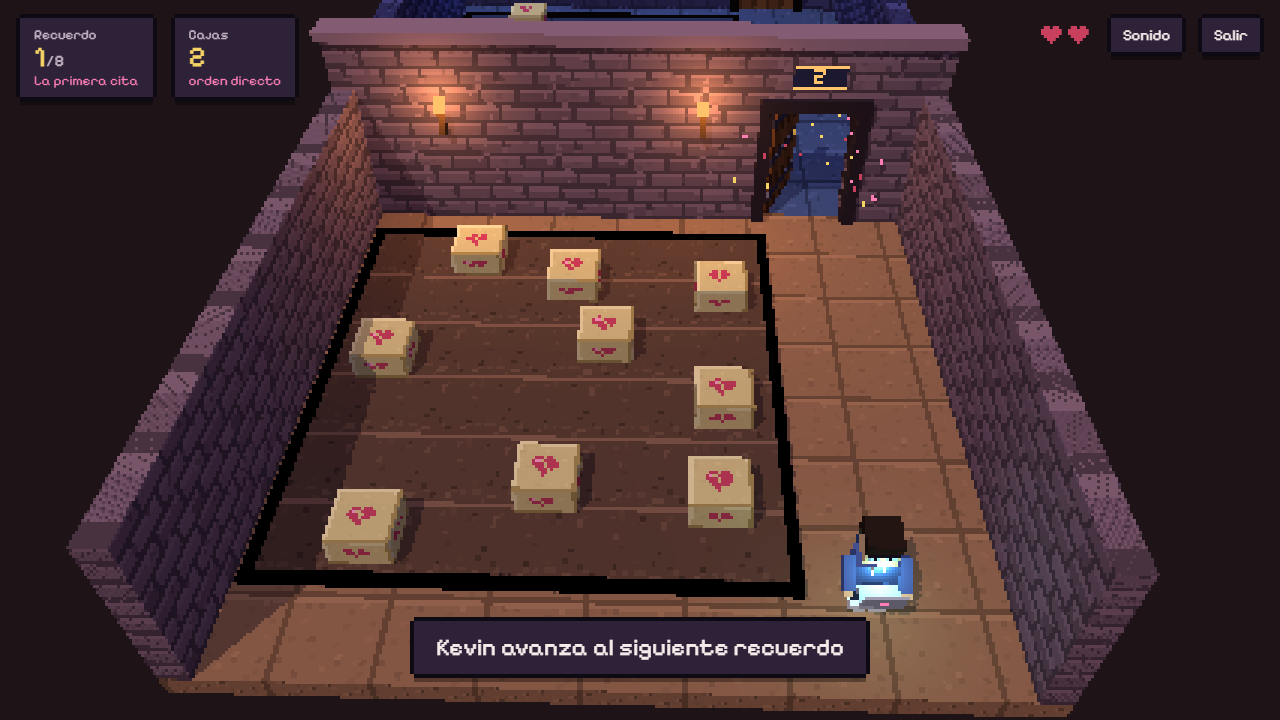
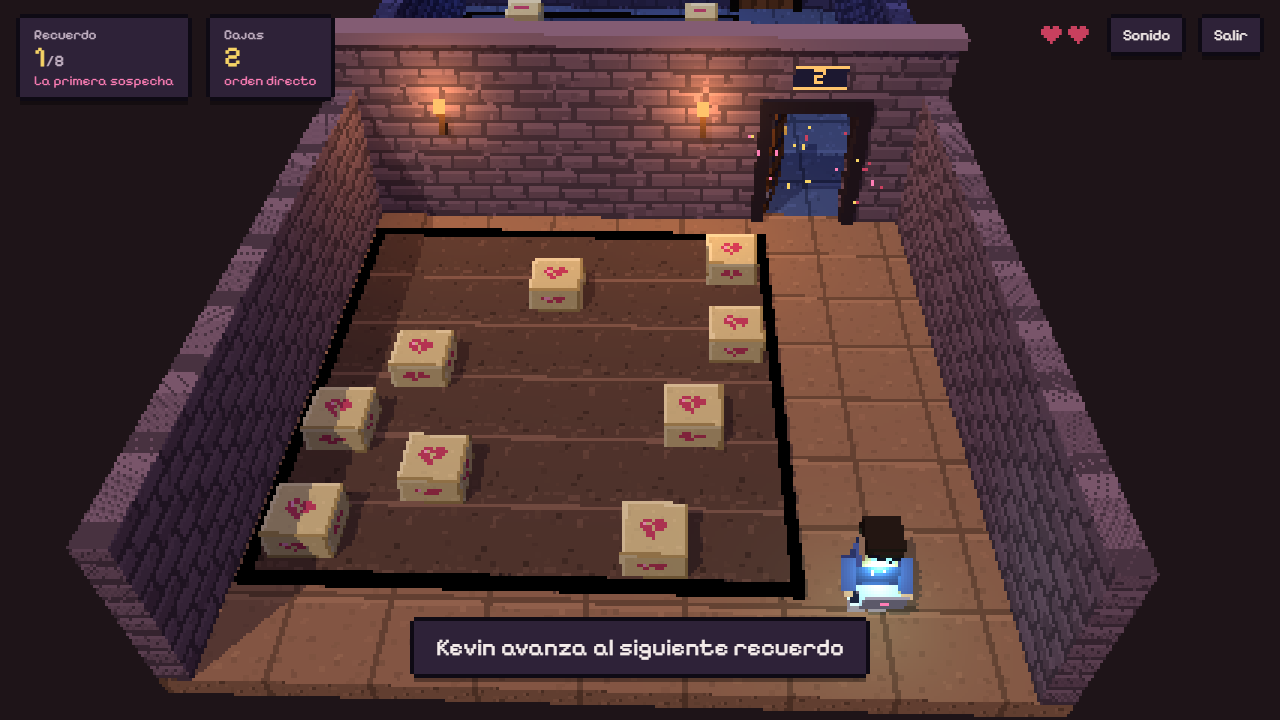
Cambia las frases de ELLA por las tipicas excusas de infidelidad

diff --git a/js/story.js b/js/story.js
@@ -1,66 +1,66 @@
 // Narrativa: Kevin, programador junior, recorre los recuerdos de su ex.
-// Cada sala es un recuerdo y cada recuerdo guarda una frase de ELLA.
+// Cada sala es un recuerdo y cada recuerdo guarda una de las típicas excusas de ELLA.
 
 export const GAME_TITLE = '404: Amor no encontrado';
 export const HERO = 'Kevin';
 
 export const MEMORIES = [
   {
-    place: 'La primera cita',
-    lie: 'Me encanta que seas programador.',
-    truth: 'Kevin aún no sabía que eso incluía arreglarle la impresora a toda su familia.',
-  },
-  {
-    place: 'El chat de las 3 a.m.',
+    place: 'La primera sospecha',
     lie: 'Solo es un amigo.',
-    truth: 'El "amigo" tenía su propio álbum de fotos. Con stickers.',
+    truth: 'El "amigo" le escribía "buenos días, preciosa" todos los días a las 7:00. Con cron job.',
   },
   {
-    place: 'Su cumpleaños',
-    lie: 'Ya estoy lista en 5 minutos.',
-    truth: 'La reserva del restaurante expiró. Dos veces.',
+    place: 'La foto con "el primo"',
+    lie: 'Es mi primo.',
+    truth: 'Kevin conoce a toda su familia. Ese primo no sale en ninguna foto de Navidad.',
   },
   {
-    place: 'La salida con sus amigas',
-    lie: 'Te escribo cuando llegue.',
-    truth: 'Según el último reporte, sigue en camino.',
+    place: 'La noche sin respuesta',
+    lie: 'Me quedé sin batería.',
+    truth: 'Pero sí tuvo batería para subir 14 historias esa noche.',
   },
   {
-    place: 'La pelea por nada',
-    lie: 'No estoy enojada.',
-    truth: 'Lo escribió con punto final. Y los puntos finales no mienten.',
+    place: 'El sábado con "las amigas"',
+    lie: 'Estoy en casa de mi amiga.',
+    truth: 'La amiga estaba en el gimnasio. Lo subió a sus historias.',
   },
   {
-    place: 'El "tenemos que hablar"',
-    lie: 'No eres tú, soy yo.',
-    truth: 'Kevin revisó el git blame. Decía "Kevin".',
+    place: 'El chat que se quedó abierto',
+    lie: 'No es lo que parece.',
+    truth: 'Era exactamente lo que parecía. Hasta el compilador lo detectó.',
   },
   {
-    place: 'Las historias de Instagram',
-    lie: 'Necesito tiempo para mí.',
-    truth: 'Su "tiempo para mí" tuvo 1,2 k vistas y un tal Brayan en todas las fotos.',
+    place: 'El WhatsApp "hackeado"',
+    lie: 'Me hackearon el WhatsApp.',
+    truth: 'Kevin es programador y revisó. Ningún hacker borra solo los chats con Brayan.',
   },
   {
-    place: 'El servidor del olvido',
-    lie: 'Siempre vamos a ser amigos.',
-    truth: 'Kevin fue bloqueado en 3 plataformas. Récord personal.',
+    place: 'El "hermano" de la universidad',
+    lie: 'Él es como un hermano para mí.',
+    truth: 'Un hermano que la llamaba "bebé" a las 2 a.m.',
+  },
+  {
+    place: 'La última conversación',
+    lie: 'Tú eres el único.',
+    truth: 'Era verdad: el único que no sabía nada.',
   },
 ];
 
 export const SUCCESS_LINES = [
   'Commit exitoso: una mentira menos.',
-  'Build passing. El corazón sigue en mantenimiento.',
-  'Merge sin conflictos. Ojalá la relación hubiera sido así.',
-  'Test aprobado. Ella nunca aprobó ninguno de los tuyos.',
-  'La puerta se abrió. Ella nunca abrió tus mensajes.',
+  'La puerta se abrió. Su celular, nunca.',
+  'Build passing. Brayan sigue en los logs.',
+  'Merge sin conflictos. Todo lo contrario a su historial de chats.',
+  'Test aprobado. Ella también "salía con las chicas".',
 ];
 
 export const ERROR_LINES = [
   'Error 404: recuerdo no encontrado.',
   'Le creíste otra vez, ¿no?',
-  'Ese no era. Como Brayan, que tampoco "era nada".',
+  'Ese no era. Como "el primo", que tampoco era primo.',
   'Segmentation fault emocional.',
-  'Hasta ella recordaba mejor sus excusas.',
+  'Hasta ella recordaba mejor sus coartadas.',
 ];
 
 export const PRACTICE = {
@@ -73,13 +73,13 @@ export const PRACTICE = {
 export const ENDINGS = {
   win: {
     kicker: 'Kevin cerró la última puerta',
-    text: 'Hizo git push --force al olvido y siguió adelante. Ya no recuerda a ELLA, pero sí todas sus mentiras.',
+    text: 'Hizo git push --force al olvido y siguió adelante. Ya no recuerda a ELLA, pero sí cada una de sus coartadas.',
   },
   lose: {
     kicker: 'Kevin se quedó atrapado en un recuerdo',
-    text: 'Le faltó memoria para cerrar esta puerta. Mañana puede intentarlo otra vez.',
+    text: 'Le faltó memoria para cerrar esta puerta. Ella contaba con eso. Mañana puede intentarlo otra vez.',
   },
-  zero: 'Ni la primera cita pudo superar. Respira y prueba otra vez con calma.',
+  zero: 'Ni la primera sospecha pudo superar. Respira y prueba otra vez con calma.',
 };
 
 export const pick = (list) => list[Math.floor(Math.random() * list.length)];

diff --git a/index.html b/index.html
@@ -32,7 +32,7 @@
       <div class="chip">
         <span class="chip-label">Recuerdo</span>
         <strong><span id="hud-room">1</span><small>/8</small></strong>
-        <span class="chip-sub" id="hud-place">La primera cita</span>
+        <span class="chip-sub" id="hud-place">La primera sospecha</span>
       </div>
       <div class="chip">
         <span class="chip-label">Cajas</span>
@@ -55,9 +55,9 @@
 
     <div class="room-card" id="room-card" hidden>
       <p class="room-kicker" id="card-kicker">Recuerdo 1 de 8</p>
-      <h2 class="room-place" id="card-place">La primera cita</h2>
+      <h2 class="room-place" id="card-place">La primera sospecha</h2>
       <blockquote class="room-lie">
-        <p id="card-lie">“Me encanta que seas programador.”</p>
+        <p id="card-lie">“Solo es un amigo.”</p>
         <cite>ELLA</cite>
       </blockquote>
       <p class="room-truth" id="card-truth"></p>

diff --git a/README.md b/README.md
@@ -4,7 +4,7 @@ Juego web 3D con estética pixel art para entrenar la **memoria de trabajo visoe
 
 **Jugar en línea:** https://olivionperu.github.io/mnemo-corsi/
 
-Kevin, programador junior, quedó en visto para siempre. Para olvidarla, primero tiene que recordar todas sus mentiras. Cada sala es un recuerdo de la relación con una frase de ELLA ("Solo es un amigo", "Ya estoy lista en 5 minutos"…). En cada sala, unas cajas de recuerdos se encienden en secuencia. Si el jugador las toca en el orden correcto, la puerta se abre y Kevin avanza al siguiente recuerdo, donde la secuencia tiene una caja más.
+Kevin, programador junior, quedó en visto para siempre. Para olvidarla, primero tiene que recordar todas sus mentiras. Cada sala es un recuerdo de la relación con una de las típicas excusas de ELLA ("Solo es un amigo", "Es mi primo", "Me quedé sin batería", "Me hackearon el WhatsApp"…). En cada sala, unas cajas de recuerdos se encienden en secuencia. Si el jugador las toca en el orden correcto, la puerta se abre y Kevin avanza al siguiente recuerdo, donde la secuencia tiene una caja más.
 
 ## Cómo se juega
 
